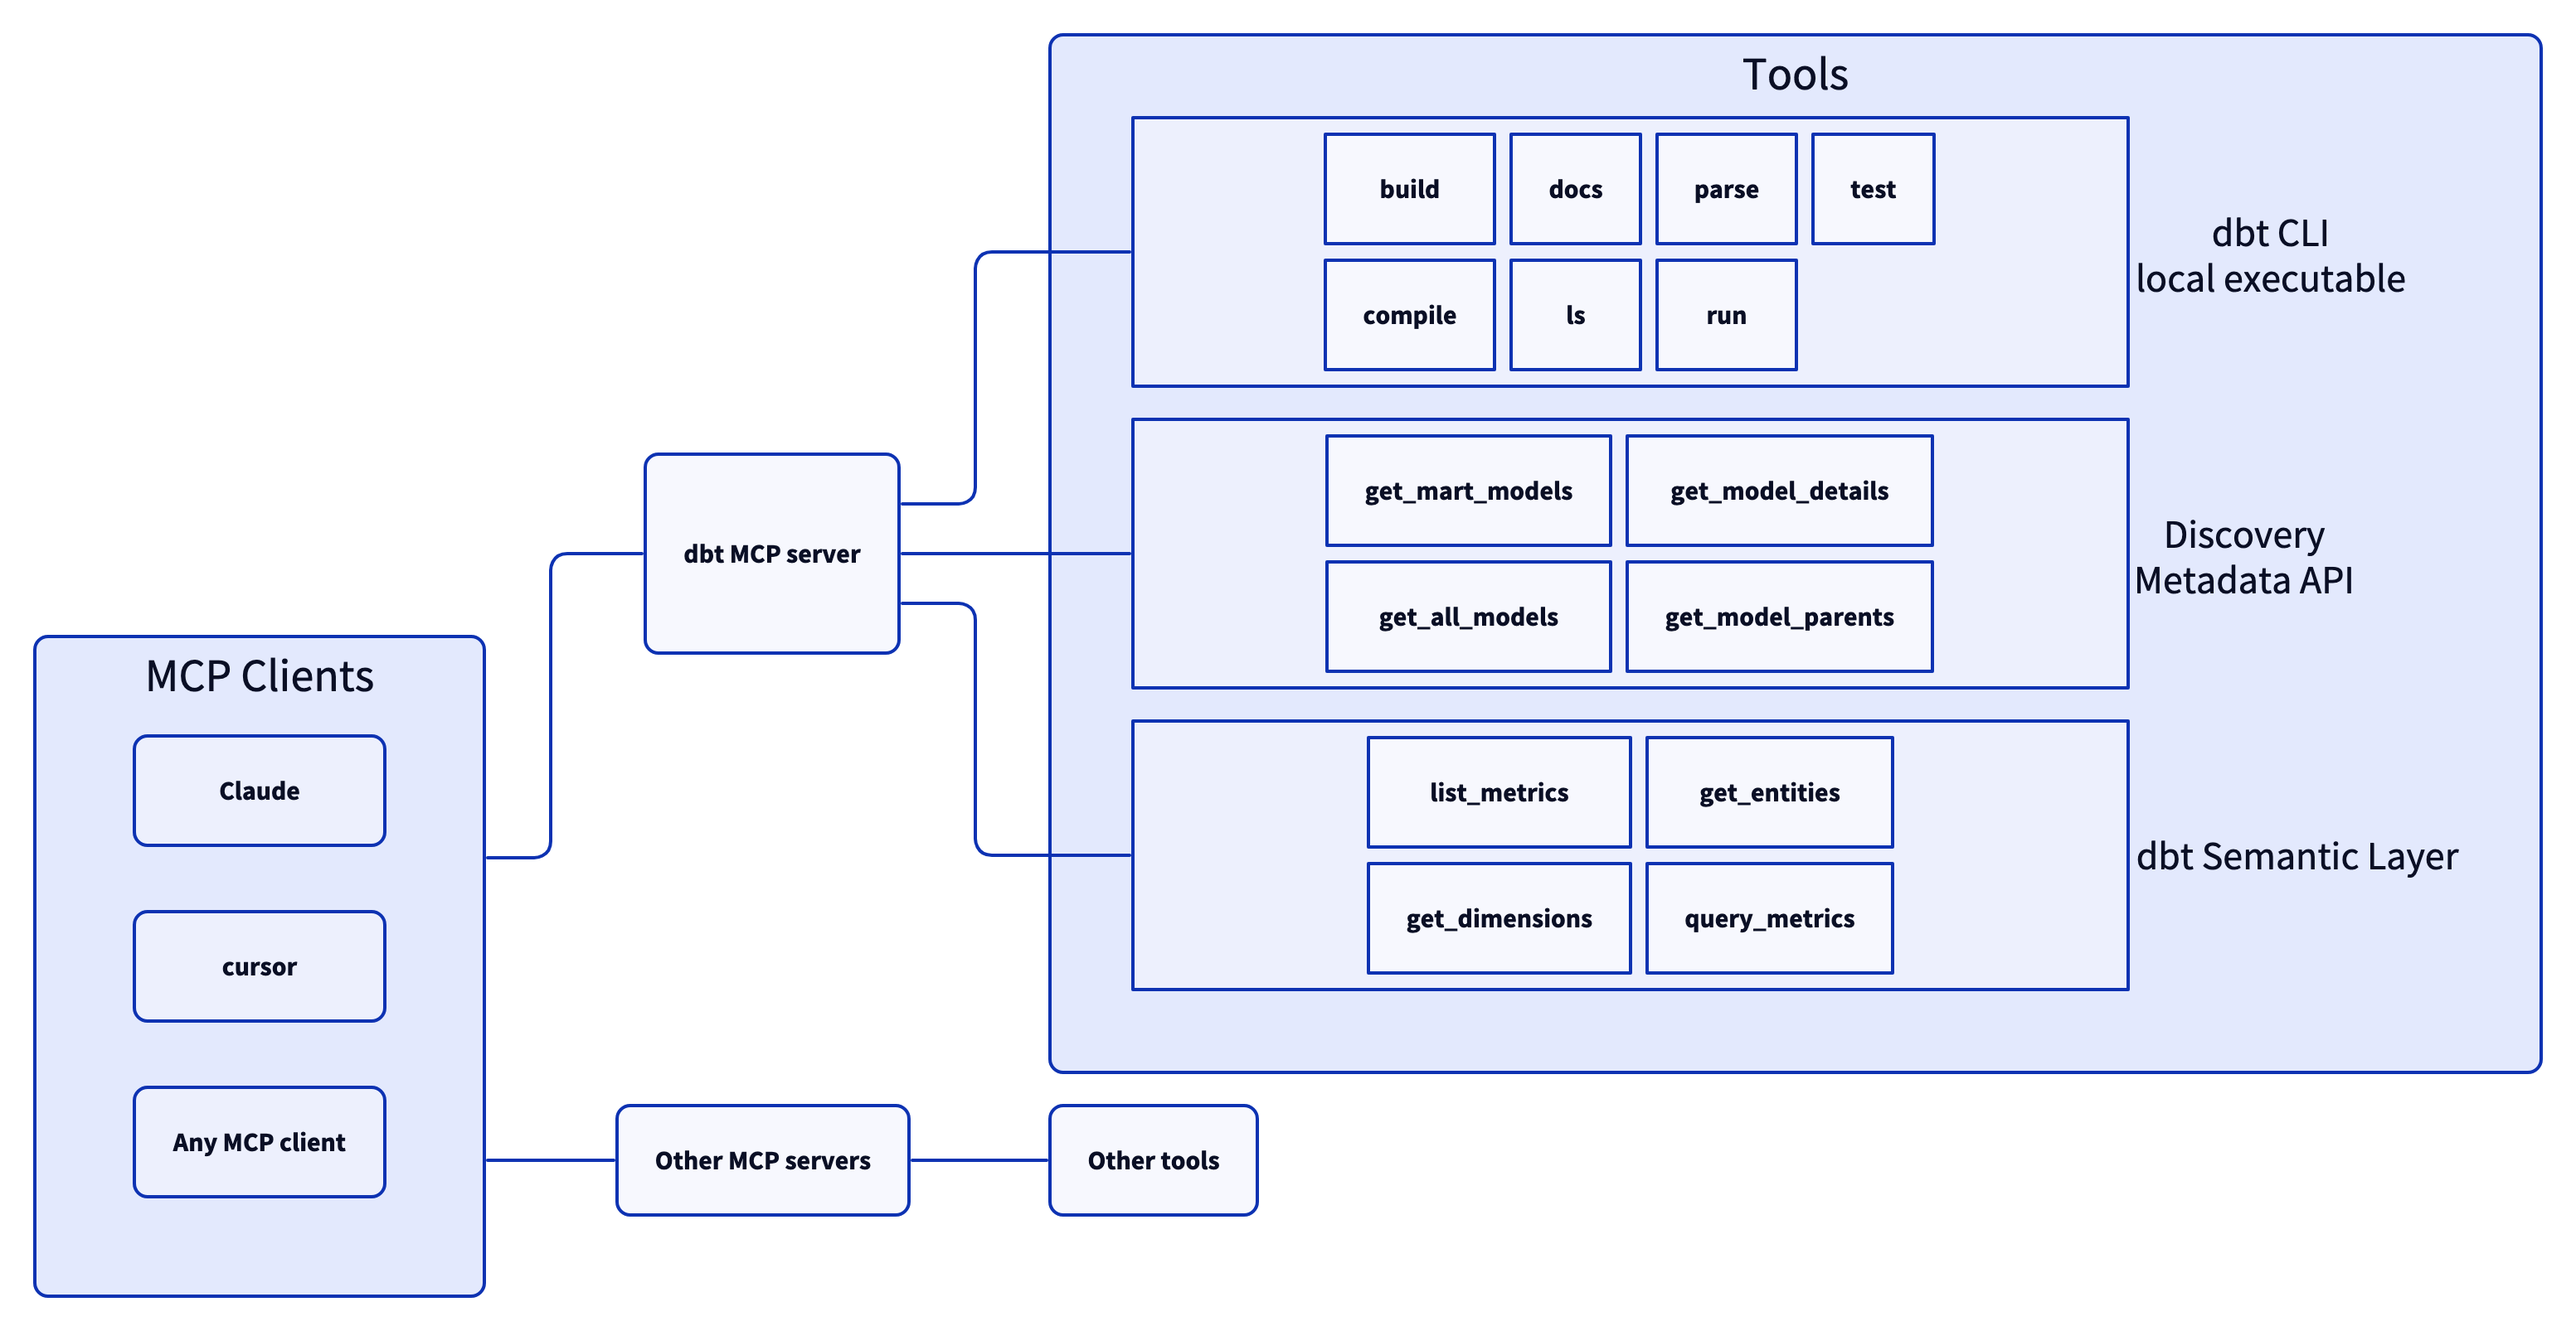
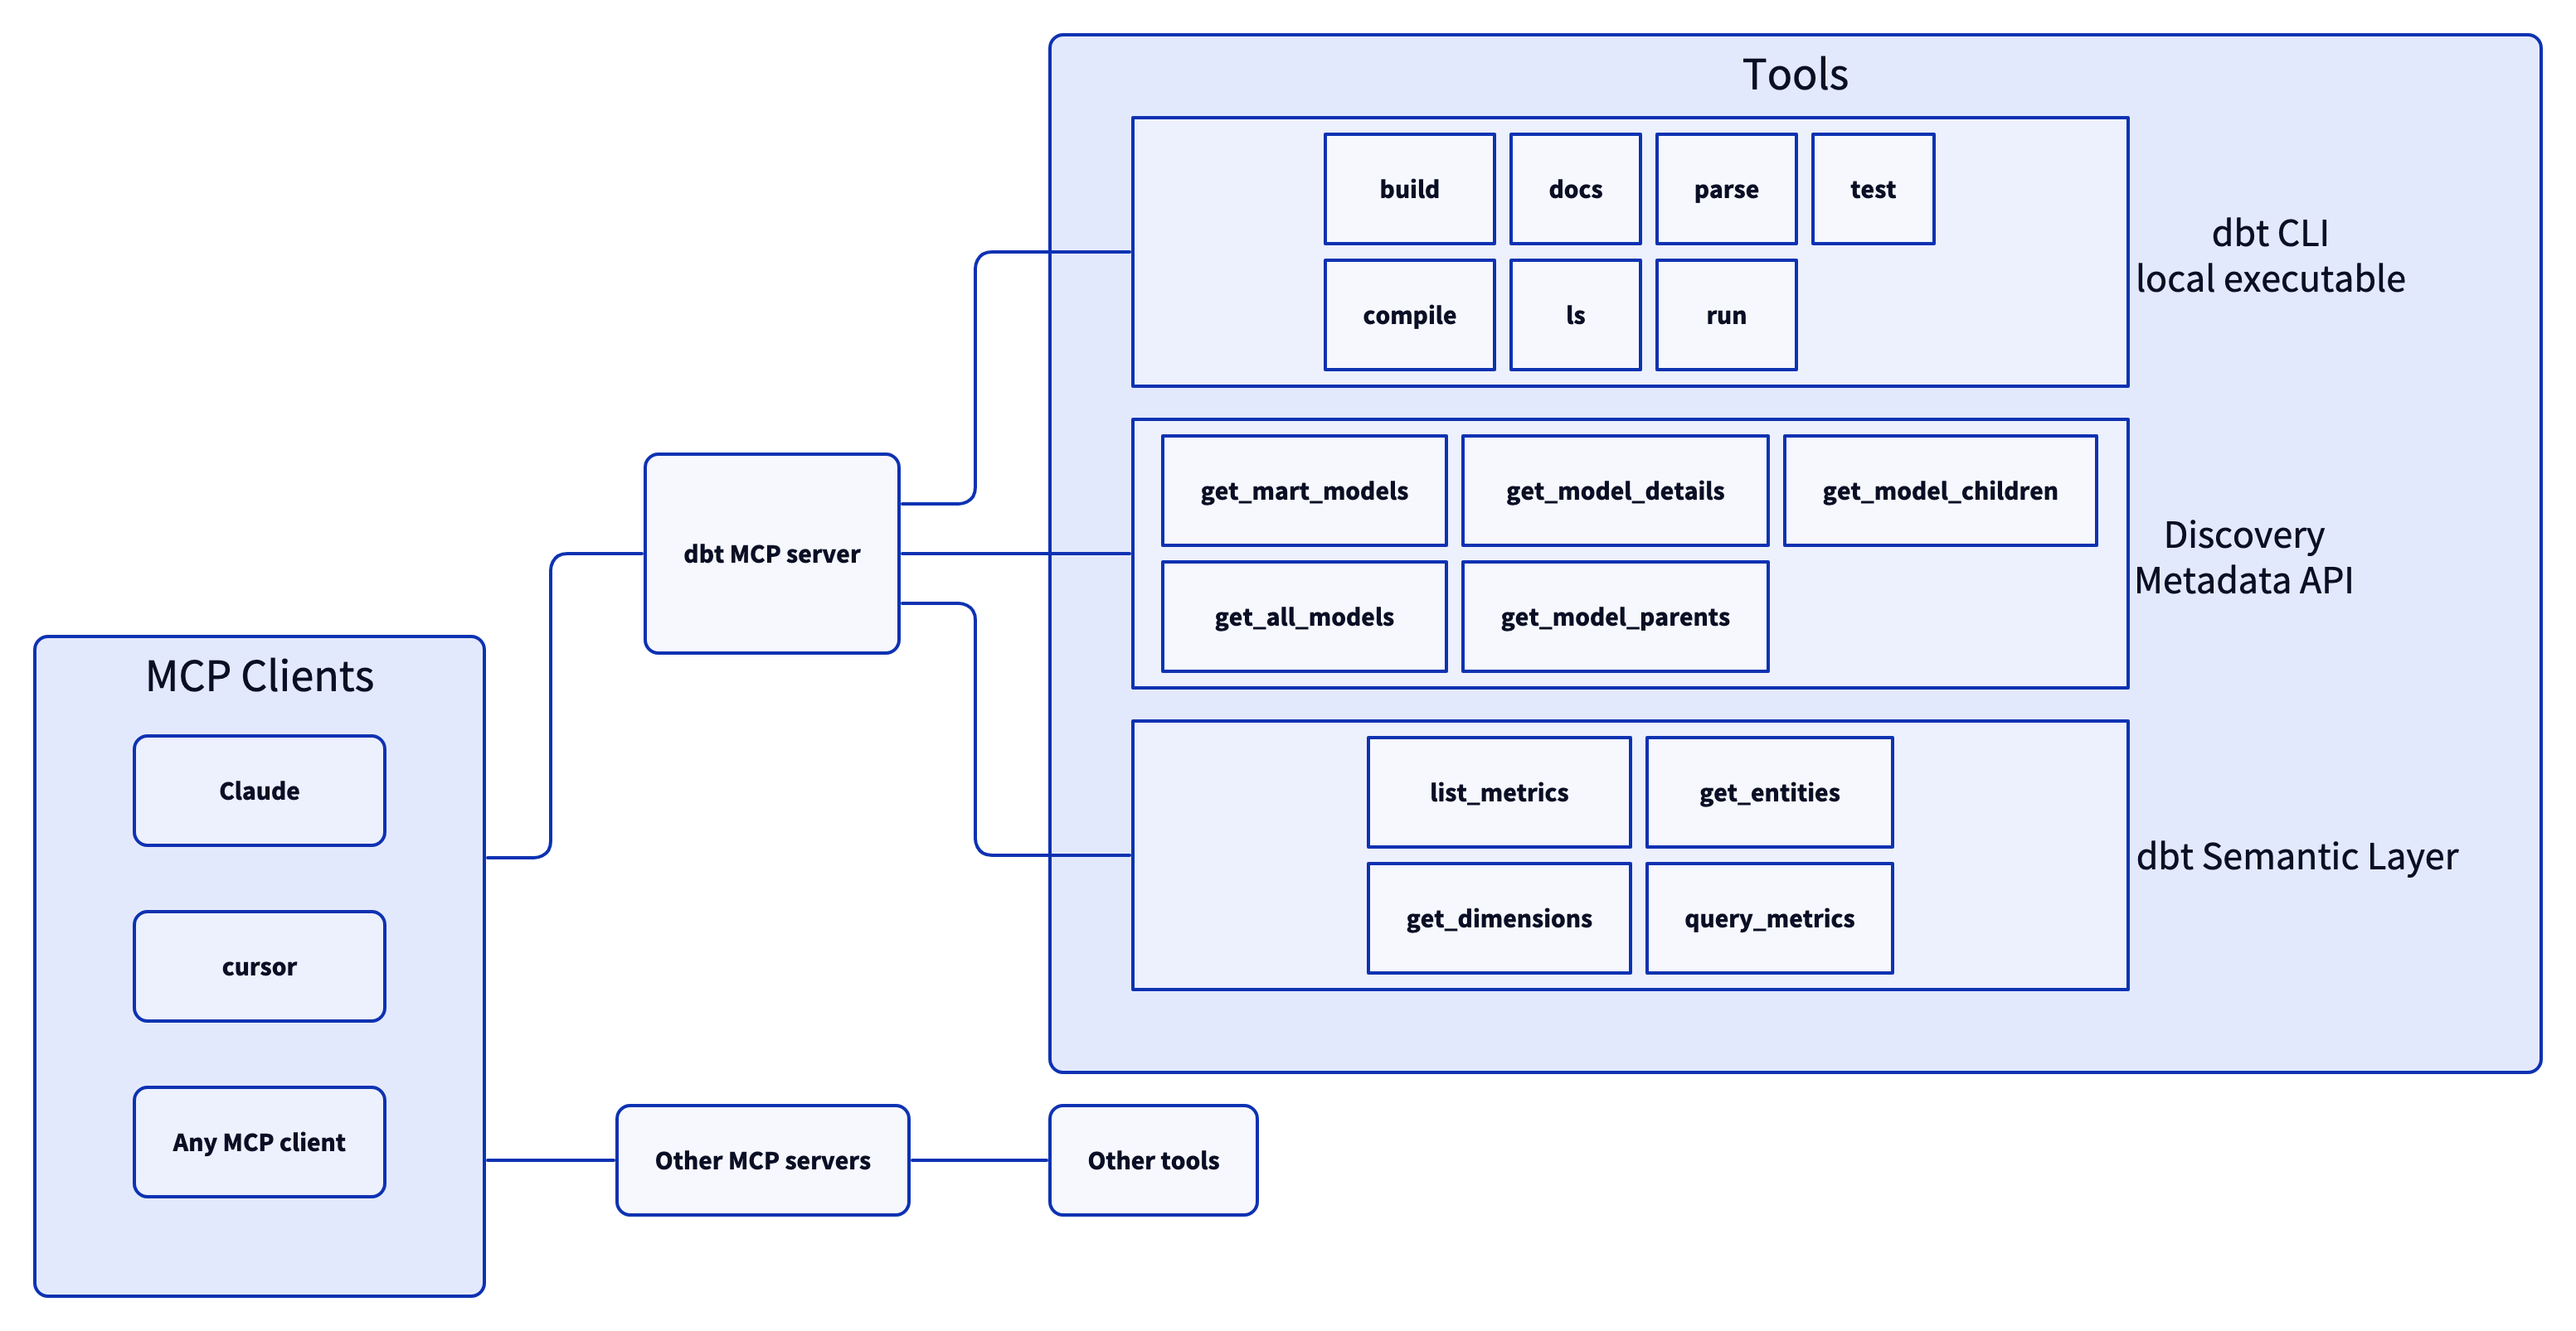
Add new tool to get children models (#103)

Changed region(s): [[0.4684, 0.3425, 0.812, 0.4047], [0.4372, 0.4047, 0.7183, 0.4981], [0.7495, 0.4047, 0.7807, 0.4359]]

diff --git a/src/dbt_mcp/discovery/client.py b/src/dbt_mcp/discovery/client.py
@@ -67,7 +67,67 @@ class GraphQLQueries:
         }
     """)
 
-    GET_MODEL_PARENTS = textwrap.dedent("""
+    COMMON_FIELDS_PARENTS_CHILDREN = textwrap.dedent("""
+        {
+        ... on ExposureAppliedStateNestedNode {
+            resourceType
+            name
+            description
+        }
+        ... on ExternalModelNode {
+            resourceType
+            description
+            name
+        }
+        ... on MacroDefinitionNestedNode {
+            resourceType
+            name
+            description
+        }
+        ... on MetricDefinitionNestedNode {
+            resourceType
+            name
+            description
+        }
+        ... on ModelAppliedStateNestedNode {
+            resourceType
+            name
+            description
+        }
+        ... on SavedQueryDefinitionNestedNode {
+            resourceType
+            name
+            description
+        }
+        ... on SeedAppliedStateNestedNode {
+            resourceType
+            name
+            description
+        }
+        ... on SemanticModelDefinitionNestedNode {
+            resourceType
+            name
+            description
+        }
+        ... on SnapshotAppliedStateNestedNode {
+            resourceType
+            name
+            description
+        }
+        ... on SourceAppliedStateNestedNode {
+            resourceType
+            name
+            description
+        }
+        ... on TestAppliedStateNestedNode {
+            resourceType
+            name
+            description
+        }
+    """)
+
+    GET_MODEL_PARENTS = (
+        textwrap.dedent("""
         query GetModelParents(
             $environmentId: BigInt!,
             $modelsFilter: ModelAppliedFilter
@@ -81,62 +141,10 @@ class GraphQLQueries:
                         }
                         edges {
                             node {
-                                parents {
-                                    ... on ExposureAppliedStateNestedNode {
-                                        resourceType
-                                        name
-                                        description
-                                    }
-                                    ... on ExternalModelNode {
-                                        resourceType
-                                        description
-                                        name
-                                    }
-                                    ... on MacroDefinitionNestedNode {
-                                        resourceType
-                                        name
-                                        description
-                                    }
-                                    ... on MetricDefinitionNestedNode {
-                                        resourceType
-                                        name
-                                        description
-                                    }
-                                    ... on ModelAppliedStateNestedNode {
-                                        resourceType
-                                        name
-                                        description
-                                    }
-                                    ... on SavedQueryDefinitionNestedNode {
-                                        resourceType
-                                        name
-                                        description
-                                    }
-                                    ... on SeedAppliedStateNestedNode {
-                                        resourceType
-                                        name
-                                        description
-                                    }
-                                    ... on SemanticModelDefinitionNestedNode {
-                                        resourceType
-                                        name
-                                        description
-                                    }
-                                    ... on SnapshotAppliedStateNestedNode {
-                                        resourceType
-                                        name
-                                        description
-                                    }
-                                    ... on SourceAppliedStateNestedNode {
-                                        resourceType
-                                        name
-                                        description
-                                    }
-                                    ... on TestAppliedStateNestedNode {
-                                        resourceType
-                                        name
-                                        description
-                                    }
+                                parents 
+    """)
+        + COMMON_FIELDS_PARENTS_CHILDREN
+        + textwrap.dedent("""
                                 }
                             }
                         }
@@ -145,6 +153,36 @@ class GraphQLQueries:
             }
         }
     """)
+    )
+
+    GET_MODEL_CHILDREN = (
+        textwrap.dedent("""
+        query GetModelChildren(
+            $environmentId: BigInt!,
+            $modelsFilter: ModelAppliedFilter
+            $first: Int,
+        ) {
+            environment(id: $environmentId) {
+                applied {
+                    models(filter: $modelsFilter, first: $first) {
+                        pageInfo {
+                            endCursor
+                        }
+                        edges {
+                            node {
+                                children 
+    """)
+        + COMMON_FIELDS_PARENTS_CHILDREN
+        + textwrap.dedent("""
+                                }
+                            }
+                        }
+                    }
+                }
+            }
+        }
+    """)
+    )
 
 
 class MetadataAPIClient:
@@ -249,3 +287,18 @@ class ModelsFetcher:
         if not edges:
             return []
         return edges[0]["node"]["parents"]
+
+    def fetch_model_children(self, model_name: str) -> list[dict]:
+        variables = {
+            "environmentId": self.environment_id,
+            "modelsFilter": {"identifier": model_name},
+            "first": 1,
+        }
+        result = self.api_client.execute_query(
+            GraphQLQueries.GET_MODEL_CHILDREN, variables
+        )
+        raise_gql_error(result)
+        edges = result["data"]["environment"]["applied"]["models"]["edges"]
+        if not edges:
+            return []
+        return edges[0]["node"]["children"]

diff --git a/src/dbt_mcp/discovery/tools.py b/src/dbt_mcp/discovery/tools.py
@@ -57,3 +57,11 @@ def register_discovery_tools(dbt_mcp: FastMCP, config: Config) -> None:
         except Exception as e:
             logger.error(f"Error getting model parents: {e}")
             return str(e)
+
+    @dbt_mcp.tool(description=get_prompt("discovery/get_model_children"))
+    def get_model_children(model_name: str) -> list[dict] | str:
+        try:
+            return models_fetcher.fetch_model_children(model_name)
+        except Exception as e:
+            logger.error(f"Error getting model children: {e}")
+            return str(e)

diff --git a/README.md b/README.md
@@ -170,7 +170,8 @@ VS Code MCP docs [here](https://code.visualstudio.com/docs/copilot/chat/mcp-serv
 * `get_mart_models` - Gets all mart models
 * `get_all_models` - Gets all models
 * `get_model_details` - Gets details for a specific model
-* `get_model_parents` - Gets parent models of a specific model
+* `get_model_parents` - Gets parent nodes of a specific model
+* `get_model_children` - Gets children modes of a specific model
 
 
 ## Contributing

diff --git a/src/dbt_mcp/prompts/discovery/get_model_children.md b/src/dbt_mcp/prompts/discovery/get_model_children.md
@@ -1,0 +1,1 @@
+Get the children or downstream models of a specific dbt model.
